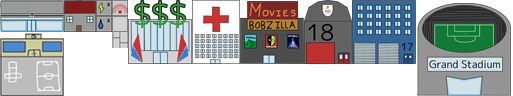
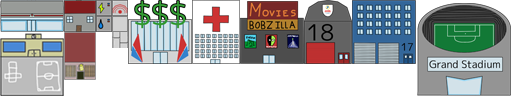
Added pub texture

Changed region(s): [[0.1248, 0.3125, 0.1871, 0.8438]]

diff --git a/CityBuilderJSFML/src/sim/Sim.java b/CityBuilderJSFML/src/sim/Sim.java
@@ -244,6 +244,7 @@ public class Sim {
 		this.buildingRenderer.setTextureRect(BuildingType.HOSPITAL, new FloatRect(192.f, 0.f, 48.f, 64.f));
 		this.buildingRenderer.setTextureRect(BuildingType.FIRE_STATION, new FloatRect(304.f, 0.f, 48.f, 64.f));
 		this.buildingRenderer.setTextureRect(BuildingType.POLICE_STATION, new FloatRect(352.f, 0.f, 64.f, 64.f));
+		this.buildingRenderer.setTextureRect(BuildingType.PUB, new FloatRect(64.f, 32.f, 32.f, 48.f));
 		this.buildingRenderer.setTextureRect(BuildingType.SCHOOL, new FloatRect(0.f, 32.f, 64.f, 64.f));
 		this.buildingRenderer.setTextureRect(BuildingType.STADIUM, new FloatRect(416.f, 0.f, 96.f, 96.f));
 		

diff --git a/CityBuilderJSFML/src/graphics/BuildingRenderer.java b/CityBuilderJSFML/src/graphics/BuildingRenderer.java
@@ -39,6 +39,7 @@ public class BuildingRenderer implements Drawable {
 			case CINEMA:
 			case FIRE_STATION:
 			case POLICE_STATION:
+			case PUB:
 			case SCHOOL:
 			case STADIUM:
 				return true;
